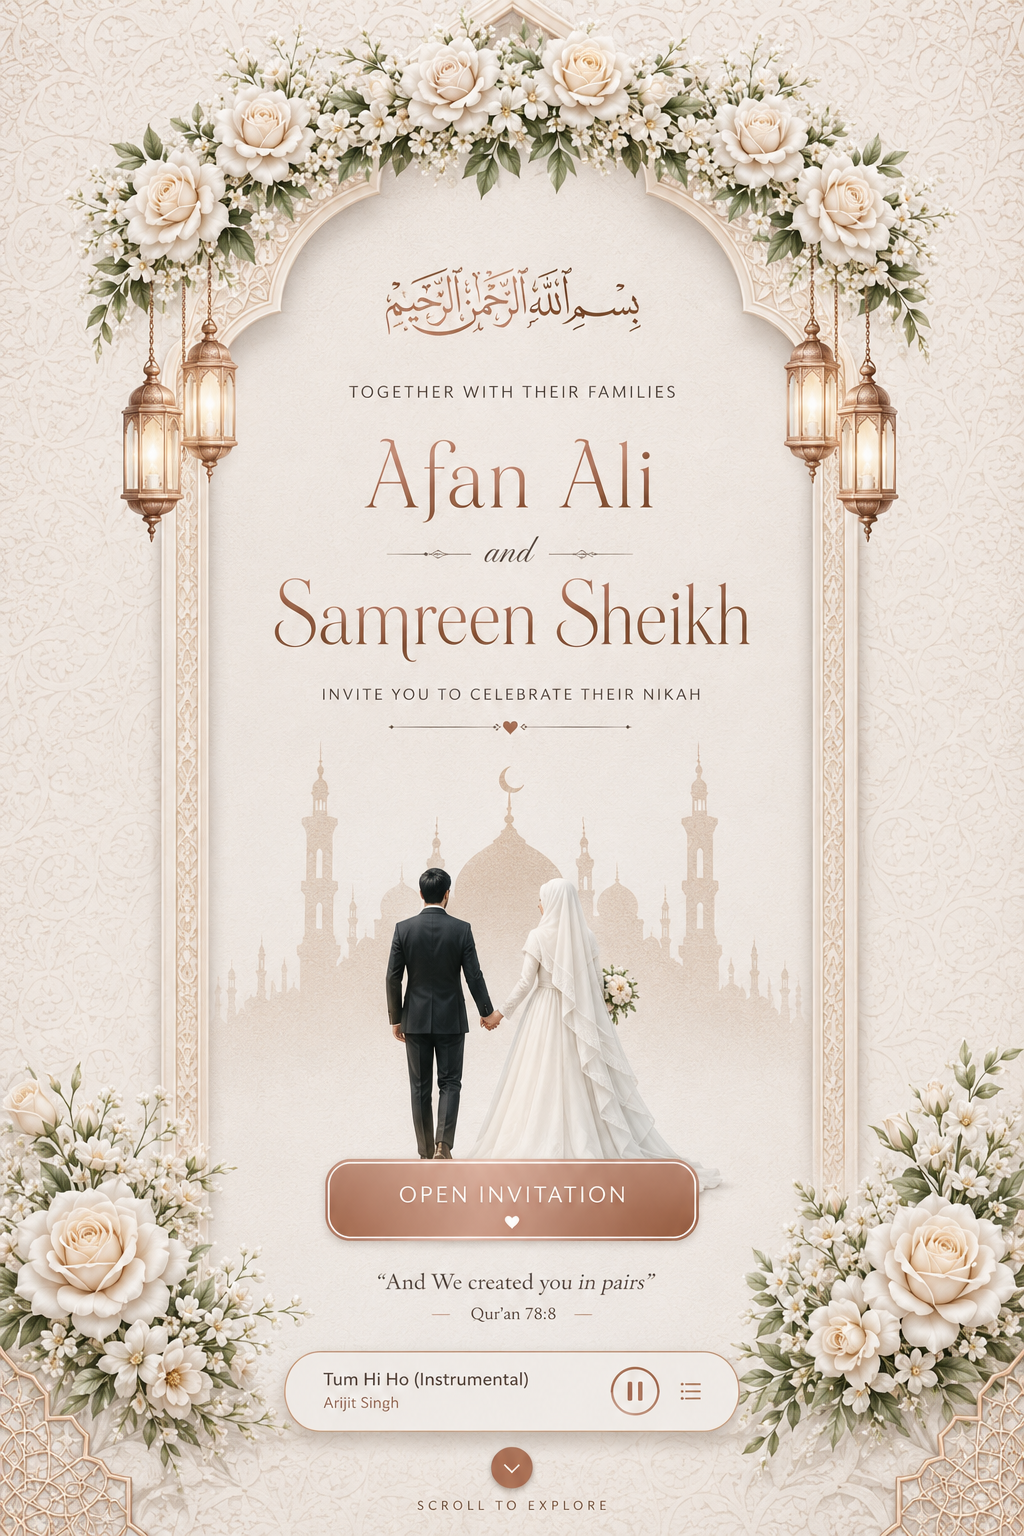
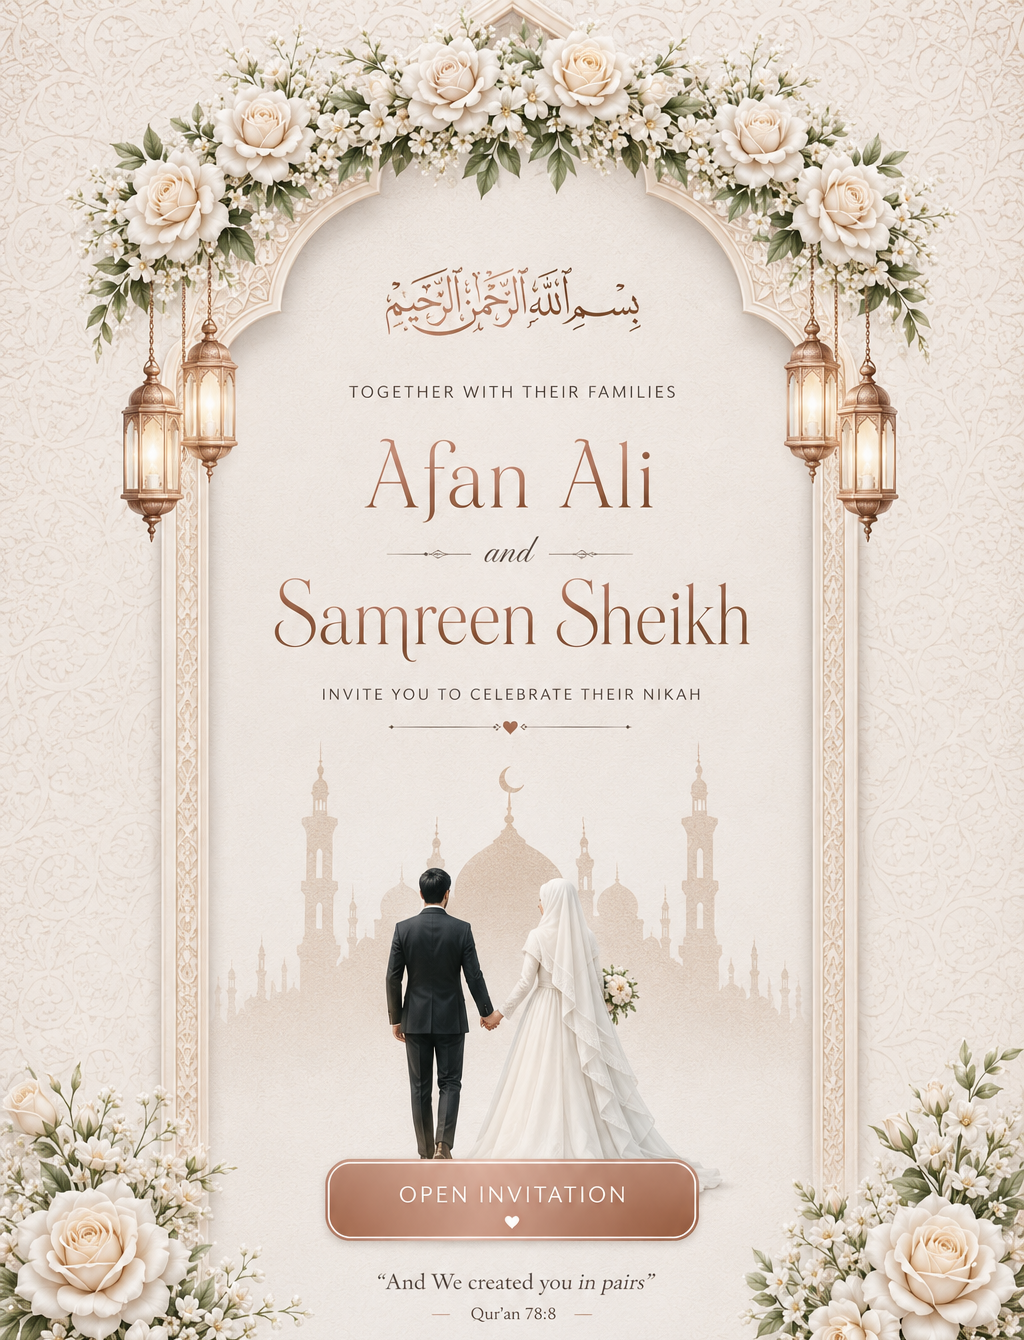
Add files via upload

diff --git a/index.html b/index.html
@@ -14,10 +14,11 @@
 .site-bg{background-image:linear-gradient(rgba(255,250,245,.80),rgba(255,250,245,.86)),url('hero-design.png');background-size:cover;background-position:center top;background-attachment:fixed}
 .cover{position:fixed;inset:0;z-index:30;min-height:100svh;display:grid;place-items:center;background:#f7eee7;transition:opacity .95s ease,visibility .95s ease}.cover.out{opacity:0;visibility:hidden;pointer-events:none}.hero-img{position:absolute;inset:0;width:100%;height:100%;object-fit:cover;object-position:center;filter:saturate(.96) contrast(.99)}
 .cover::after{content:"";position:absolute;left:0;right:0;bottom:0;height:15.5%;background:linear-gradient(to bottom,rgba(255,250,245,0),rgba(255,250,245,.96) 48%,#fffaf5 100%);pointer-events:none;z-index:2}
+.hero-copy-fix{position:absolute;z-index:3;left:50%;top:27.3%;transform:translateX(-50%);width:min(77vw,520px);height:24.5%;display:flex;align-items:center;justify-content:center;text-align:center;background:radial-gradient(ellipse at center,rgba(250,244,237,.995) 0%,rgba(250,244,237,.985) 62%,rgba(250,244,237,.82) 78%,rgba(250,244,237,0) 100%);pointer-events:none}.hero-names{margin:0;color:#8e5b49;font:400 clamp(43px,11.5vw,70px)/.96 "Bodoni Moda",serif;letter-spacing:-.025em;text-shadow:0 1px 0 rgba(255,255,255,.8)}.hero-amp{display:block;margin:10px 0 7px;color:#b8785f;font:400 italic clamp(25px,6.3vw,35px)/1 "Cormorant Garamond",serif}.hero-second{font-size:.85em}@media(max-width:390px){.hero-copy-fix{top:27.2%;width:82vw;height:24.7%}.hero-names{font-size:clamp(40px,11vw,58px)}}
 .open-hit{position:absolute;z-index:4;left:50%;bottom:20.0%;transform:translateX(-50%);width:min(64vw,370px);height:72px;border:0;border-radius:999px;background:rgba(184,118,92,.02);color:transparent;cursor:pointer}
 .cover-tip{position:absolute;z-index:5;bottom:4.2%;left:50%;transform:translateX(-50%);font-size:9px;letter-spacing:.18em;text-transform:uppercase;color:#8a6759;background:rgba(255,250,245,.78);padding:7px 12px;border-radius:999px;backdrop-filter:blur(4px);animation:breathe 2.4s ease-in-out infinite}@keyframes breathe{50%{transform:translateX(-50%) translateY(-4px);opacity:.72}}
 .musicbar{position:fixed;z-index:20;left:50%;bottom:14px;transform:translateX(-50%) translateY(120%);width:min(calc(100vw - 24px),560px);display:flex;align-items:center;gap:12px;padding:10px 12px;background:rgba(255,250,245,.93);border:1px solid rgba(184,118,92,.30);border-radius:22px;box-shadow:var(--shadow);backdrop-filter:blur(10px);transition:transform .6s cubic-bezier(.2,.75,.2,1)}.musicbar.show{transform:translateX(-50%) translateY(0)}.play{flex:0 0 42px;width:42px;height:42px;border-radius:50%;border:0;background:linear-gradient(135deg,#b56e56,#c98a6f);color:#fff;font-size:16px}.track{min-width:0;flex:1}.track b{display:block;font:500 16px/1.1 "Cormorant Garamond",serif;white-space:nowrap;overflow:hidden;text-overflow:ellipsis}.track small{display:block;margin-top:3px;font-size:8px;color:var(--muted);letter-spacing:.06em}.equalizer{display:flex;gap:2px;align-items:center;height:17px}.equalizer i{width:2px;height:7px;background:var(--rose);border-radius:2px}.musicbar-compact{left:auto;right:14px;transform:translateY(120%);width:auto;padding:8px 10px;border-radius:999px}.musicbar-compact.show{transform:translateY(0)}.musicbar.playing .equalizer i{animation:eq .7s ease-in-out infinite alternate}.musicbar.playing .equalizer i:nth-child(2){animation-delay:.15s}.musicbar.playing .equalizer i:nth-child(3){animation-delay:.3s}@keyframes eq{to{height:17px}}
-main{position:relative}.section{padding:88px 18px;position:relative}.section-inner{width:min(100%,720px);margin:auto}.glass{background:rgba(255,250,245,.86);border:1px solid rgba(184,118,92,.18);backdrop-filter:blur(5px);border-radius:32px;box-shadow:0 18px 55px rgba(82,52,42,.09);padding:44px 22px}.center{text-align:center}.kicker{font-size:8px;letter-spacing:.26em;text-transform:uppercase;font-weight:600;color:var(--rose);margin:0 0 20px}.arabic{font-family:"Noto Naskh Arabic",serif;font-weight:500;font-size:clamp(31px,9vw,48px);line-height:1.6;color:#b77a63;margin:0 0 8px}.arabic.decorative{font-family:"Aref Ruqaa Ink",serif;font-size:clamp(28px,8vw,43px)}.title{font:400 clamp(38px,10vw,56px)/1 "Bodoni Moda",serif;margin:0 0 18px;color:#6d4437}.body{font-size:11px;line-height:1.95;color:var(--muted);max-width:590px;margin:0 auto}.host{font:500 clamp(28px,7.5vw,39px)/1.25 "Cormorant Garamond",serif;margin:18px 0;color:#6d463b}.person{font:400 clamp(42px,11vw,62px)/.98 "Bodoni Moda",serif;margin:24px 0;color:#6b4438}.with{font:400 italic 25px/1.2 "Cormorant Garamond",serif;color:var(--rose)}.ornament{width:96px;height:1px;background:linear-gradient(90deg,transparent,var(--rose2),transparent);margin:24px auto}.quote{font:400 italic clamp(23px,6.5vw,34px)/1.45 "Cormorant Garamond",serif;margin:0 auto;max-width:620px;color:#644a40}.qref{font-size:8px;letter-spacing:.18em;text-transform:uppercase;color:var(--rose);margin-top:18px}
+main{position:relative}.section{padding:88px 18px;position:relative}.section-inner{width:min(100%,720px);margin:auto}.glass{background:rgba(255,250,245,.86);border:1px solid rgba(184,118,92,.18);backdrop-filter:blur(5px);border-radius:32px;box-shadow:0 18px 55px rgba(82,52,42,.09);padding:44px 22px}.center{text-align:center}.kicker{font-size:8px;letter-spacing:.26em;text-transform:uppercase;font-weight:600;color:var(--rose);margin:0 0 20px}.arabic{font-family:"Noto Naskh Arabic",serif;font-weight:500;font-size:clamp(31px,9vw,48px);line-height:1.6;color:#c58b73;margin:0 0 8px}.arabic.decorative{font-family:"Aref Ruqaa Ink",serif;font-size:clamp(28px,8vw,43px)}.title{font:400 clamp(38px,10vw,56px)/1 "Bodoni Moda",serif;margin:0 0 18px;color:#6d4437}.body{font-size:11px;line-height:1.95;color:var(--muted);max-width:590px;margin:0 auto}.host{font:500 clamp(28px,7.5vw,39px)/1.25 "Cormorant Garamond",serif;margin:18px 0;color:#6d463b}.person{font:400 clamp(42px,11vw,62px)/.98 "Bodoni Moda",serif;margin:24px 0;color:#6b4438}.with{font:400 italic 25px/1.2 "Cormorant Garamond",serif;color:var(--rose)}.ornament{width:96px;height:1px;background:linear-gradient(90deg,transparent,var(--rose2),transparent);margin:24px auto}.quote{font:400 italic clamp(23px,6.5vw,34px)/1.45 "Cormorant Garamond",serif;margin:0 auto;max-width:620px;color:#644a40}.qref{font-size:8px;letter-spacing:.18em;text-transform:uppercase;color:var(--rose);margin-top:18px}
 .count{display:grid;grid-template-columns:repeat(4,1fr);gap:8px;margin-top:28px}.count div{background:rgba(255,250,245,.72);border:1px solid var(--line);padding:18px 3px;border-radius:18px;box-shadow:0 8px 20px rgba(88,55,42,.04)}.count b{display:block;font:400 clamp(27px,7.5vw,39px)/1 "Bodoni Moda",serif}.count span{display:block;font-size:6.7px;text-transform:uppercase;letter-spacing:.08em;margin-top:7px;color:var(--muted)}
 .card{background:rgba(255,252,249,.90);border:1px solid var(--line);border-radius:28px;padding:30px 21px;margin:16px 0;box-shadow:0 13px 40px rgba(86,55,45,.06)}.card h3{font:500 31px/1.05 "Cormorant Garamond",serif;margin:0 0 8px}.role{font-size:8px;text-transform:uppercase;letter-spacing:.18em;color:var(--rose);margin:0 0 17px}.meta{font-size:10.5px;line-height:1.8;color:var(--muted)}.meta strong{font-weight:500;color:var(--ink)}.event-grid{display:grid;gap:18px;margin-top:22px;padding-top:20px;border-top:1px solid var(--line)}.label{font-size:8px;letter-spacing:.17em;text-transform:uppercase;color:var(--rose)}.event-grid strong{display:block;font:500 20px/1.25 "Cormorant Garamond",serif;margin-top:5px}.actions{display:grid;gap:9px;margin-top:20px}.action{display:flex;align-items:center;justify-content:center;min-height:46px;border:1px solid rgba(184,117,94,.38);border-radius:999px;color:#744c40;text-decoration:none;font-size:8px;font-weight:600;letter-spacing:.13em;text-transform:uppercase;background:rgba(255,250,245,.58)}
 .footer{padding:90px 20px 95px;text-align:center}.footer p{font-size:9px;color:var(--muted)}
@@ -26,7 +27,7 @@ main{position:relative}.section{padding:88px 18px;position:relative}.section-inn
 </style></head>
 <body class="lock">
 <audio id="bgm" loop preload="auto" playsinline><source src="pehle-bhi-main.mp3" type="audio/mpeg"></audio>
-<section id="cover" class="cover"><img class="hero-img" src="hero-design.png" alt="Afan and Samreen wedding invitation"><button id="open" class="open-hit" aria-label="Open invitation"></button><div class="cover-tip">Tap Open Invitation</div></section>
+<section id="cover" class="cover"><img class="hero-img" src="hero-design.png" alt="Afan Ali and Samreen Z Sheikh wedding invitation"><div class="hero-copy-fix" aria-hidden="true"><p class="hero-names">Afan Ali<span class="hero-amp">&amp;</span><span class="hero-second">Samreen Z Sheikh</span></p></div><button id="open" class="open-hit" aria-label="Open invitation"></button><div class="cover-tip">Tap Open Invitation</div></section>
 <div id="musicbar" class="musicbar musicbar-compact"><button id="play" class="play" aria-label="Play or pause music">▶</button><div class="equalizer" aria-hidden="true"><i></i><i></i><i></i></div></div>
 <main class="site-bg">
 <section class="section center"><div class="section-inner glass reveal"><p class="kicker">Wedding Invitation</p><p class="arabic decorative">بِسْمِ اللهِ الرَّحْمٰنِ الرَّحِيْمِ</p><p class="body">In the name of Allah, the Most Gracious, the Most Merciful</p><div class="ornament"></div><p class="host">Together with our families</p><p class="body">we request the pleasure of your company at our Nikah ceremony</p><h2 class="person">Mohammed Afan Ali</h2><p class="with">with</p><h2 class="person">Samreen Zainuddin Sheikh</h2><p class="body">We warmly invite you to join us on this blessed occasion and keep the couple in your prayers.</p></div></section>
